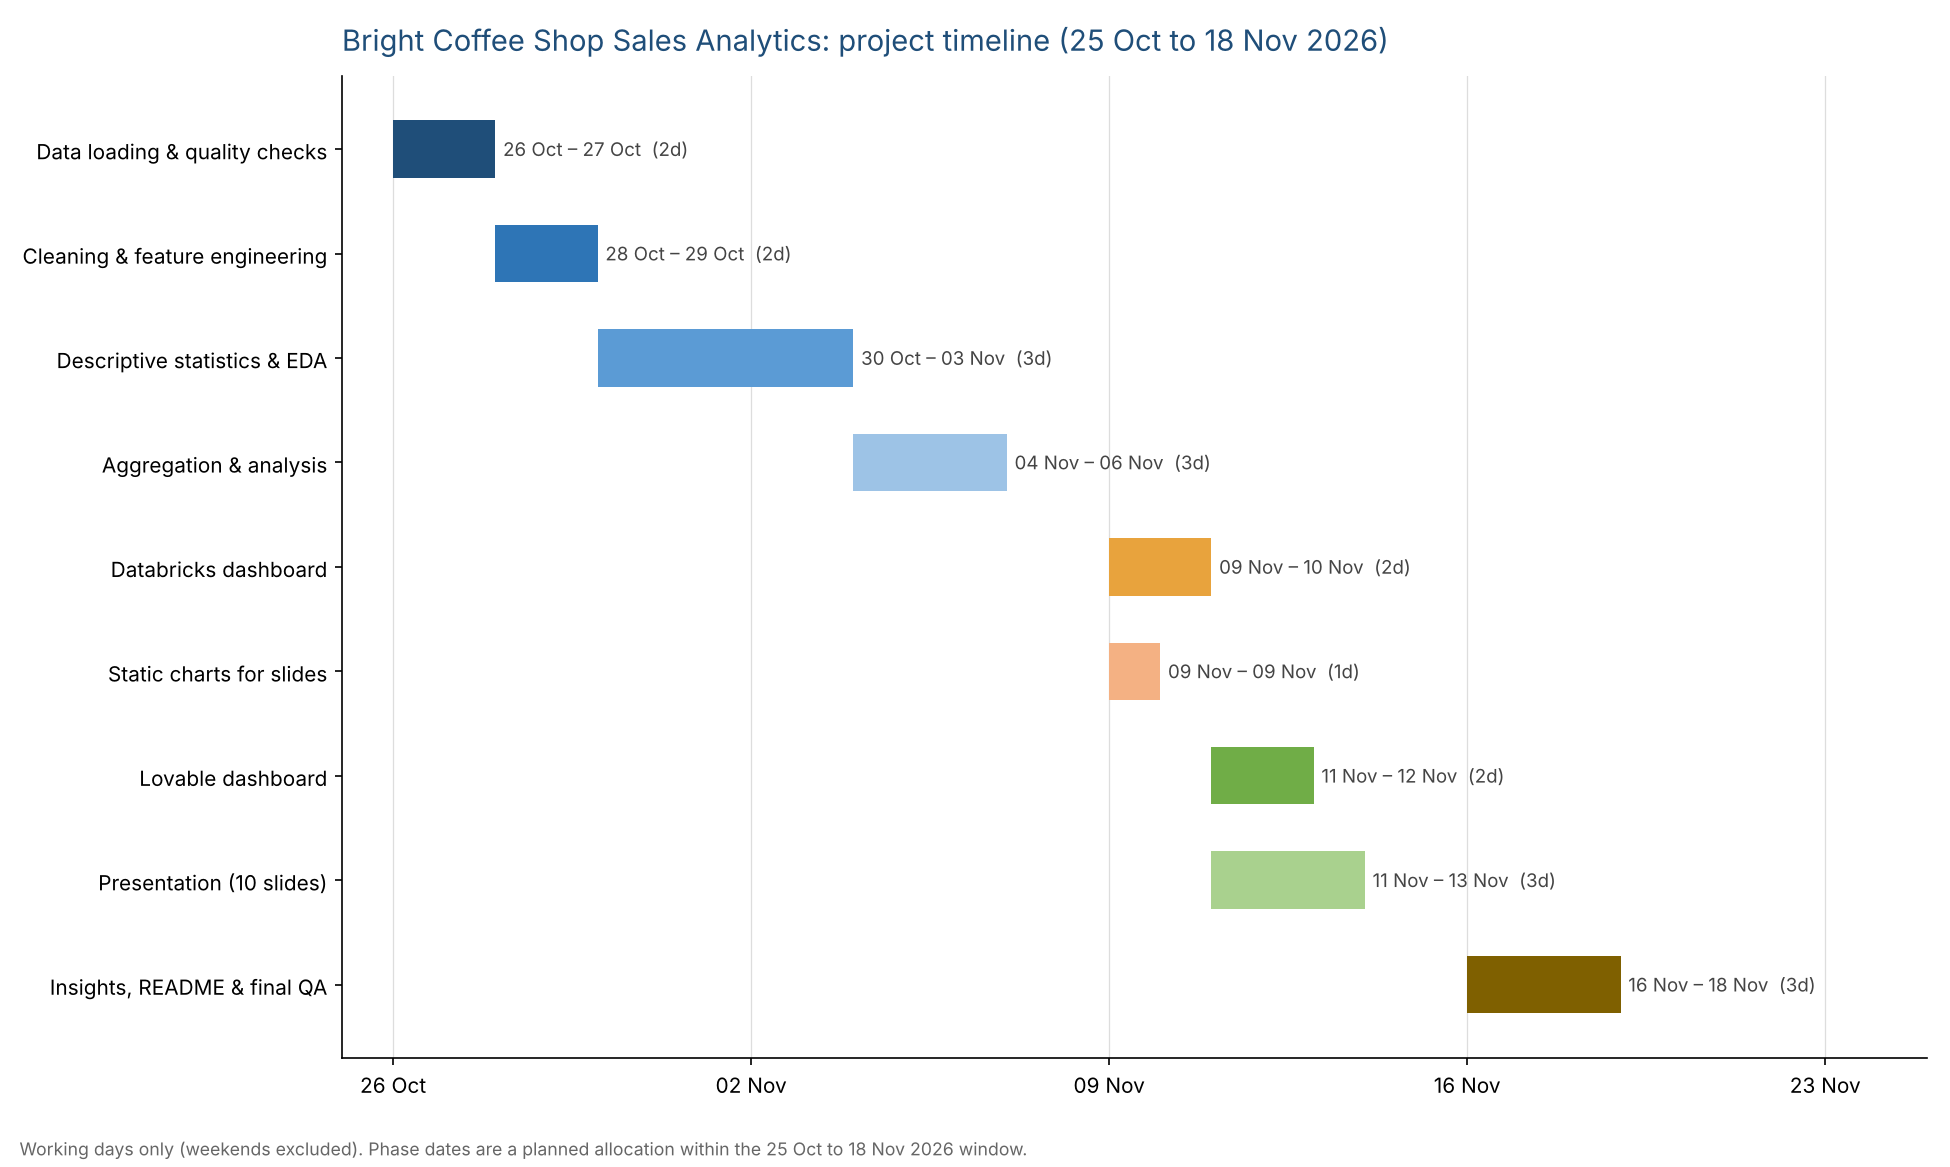
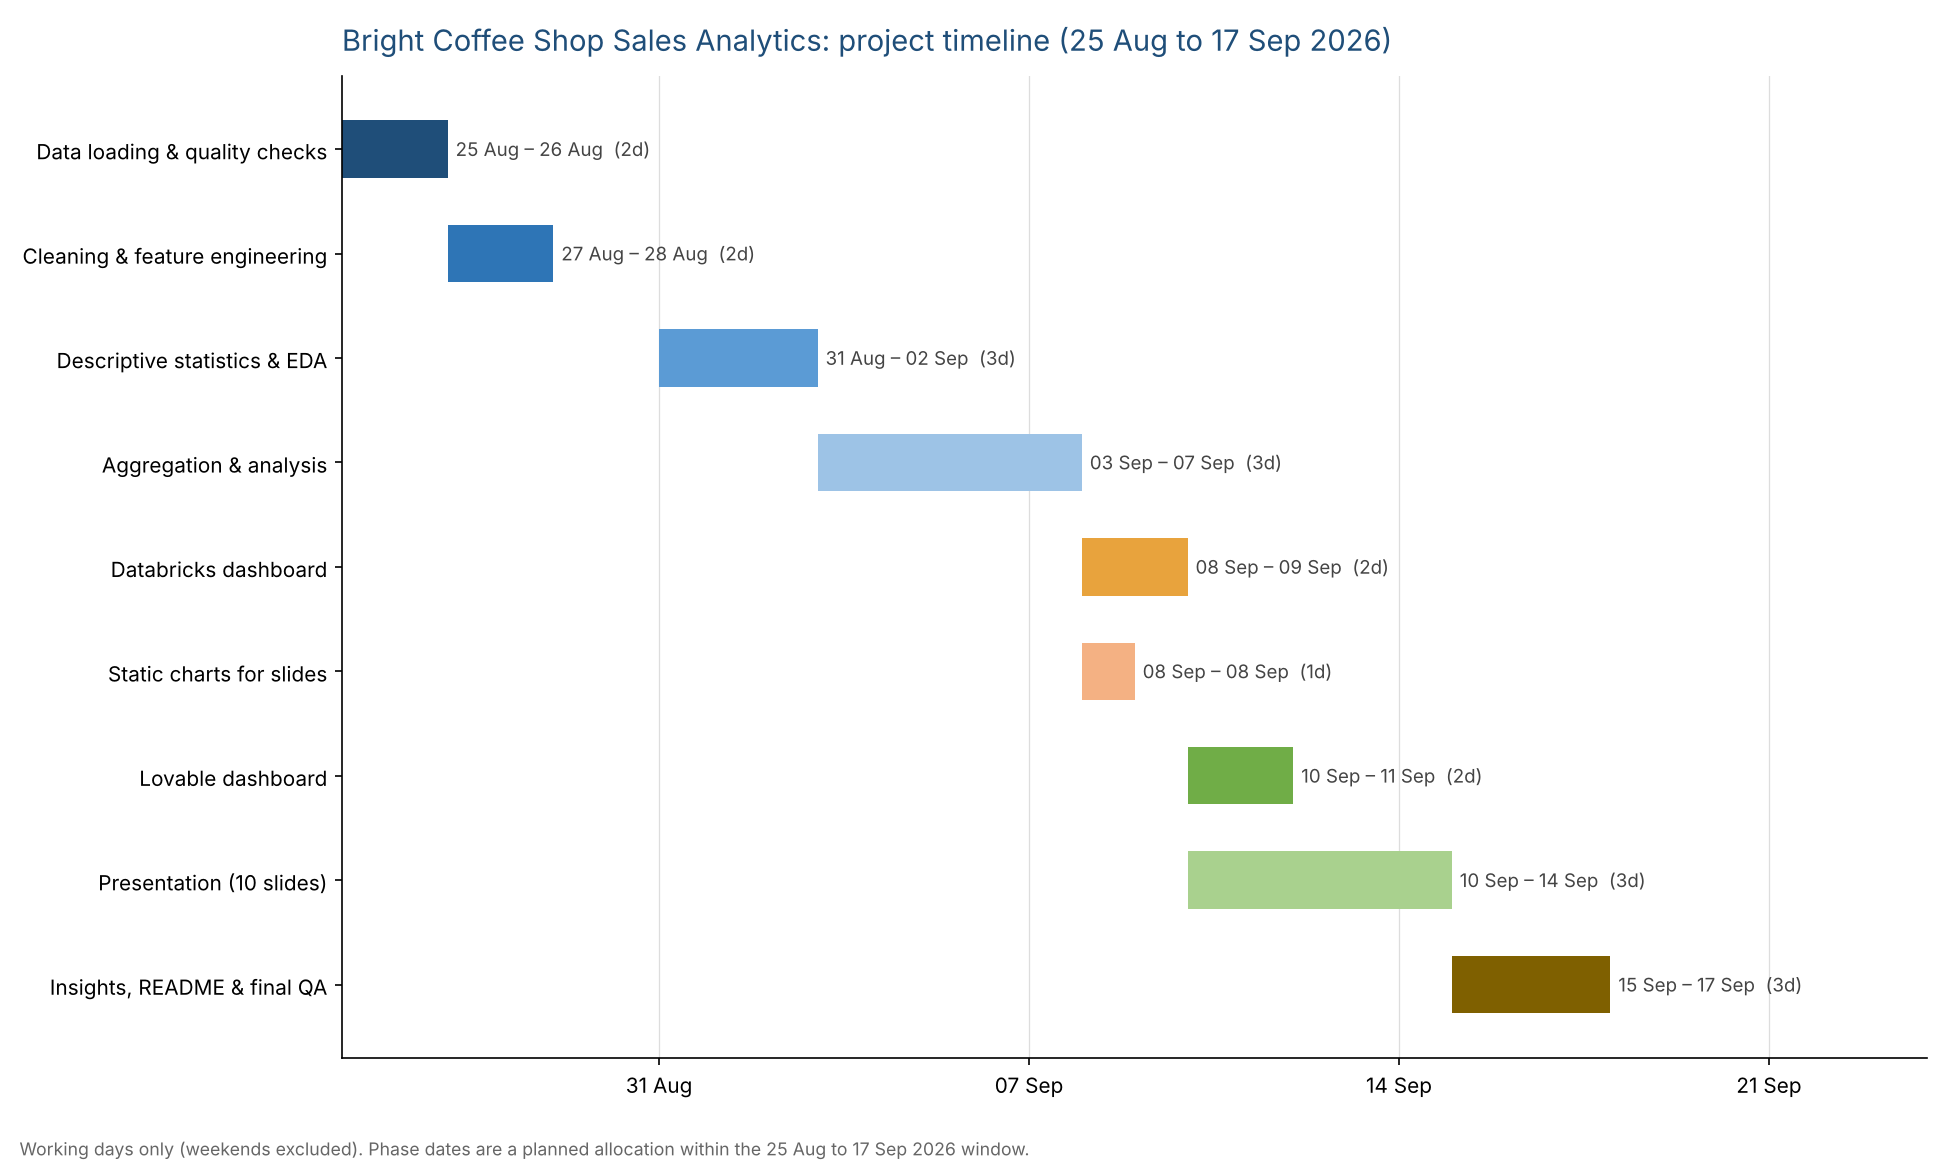
Update Gantt to 25 Aug to 17 Sep 2026 (about 3.5 weeks)

diff --git a/README.md b/README.md
@@ -61,7 +61,7 @@ Locations: Astoria · Hell's Kitchen · Lower Manhattan
 | 📄 | `Bright_Coffee_Shop_Sales.csv` | Raw source data |
 | 📊 | `Bright_Coffee_Sales_Presentation.pptx` | Slide deck of the analysis findings |
 | 🧠 | `mind_map.png` | Mind map of the project structure |
-| 🗓 | `gantt_chart.png` | Project timeline, 25 Oct to 18 Nov 2026 |
+| 🗓 | `gantt_chart.png` | Project timeline, 25 Aug to 17 Sep 2026 |
 
 ---
 
@@ -122,9 +122,9 @@ Total revenue for the period was $698,812.33 across 214,470 items sold, an avera
 
 ## 🗓 Suggested timeline
 
-![Gantt chart of the project timeline, 25 Oct to 18 Nov 2026](gantt_chart.png)
+![Gantt chart of the project timeline, 25 Aug to 17 Sep 2026](gantt_chart.png)
 
-The project ran from 25 October to 18 November 2026. Phases are shown on working days only (18 working days in total). Each phase is listed with its start and end date.
+The project ran from 25 August to 17 September 2026 (about 3.5 weeks). Phases are shown on working days only (18 working days in total). Each phase is listed with its start and end date.
 
 ---
 
